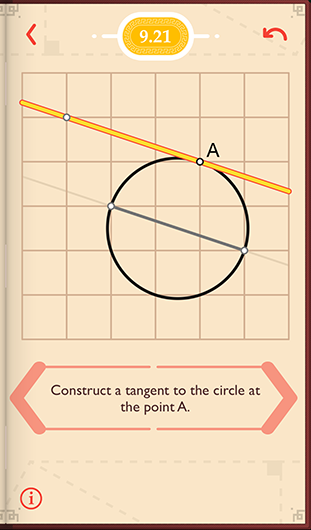
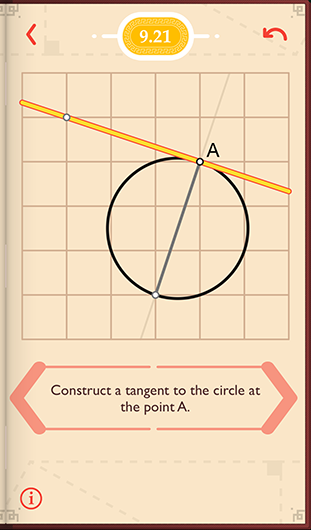
修改解答

diff --git a/Pythagorea.md b/Pythagorea.md
@@ -143,7 +143,7 @@ apple app store里Pythagorea游戏的解法，低难度题目略。
 ![9.14](solving/Pythagorea/9.14.png)
 
 ####§ 9.21
-切线，找出和连接切点和直径90度的直径，作平行线  
+切线，在切点做直径的垂线  
 ![9.21](solving/Pythagorea/9.21.png)
 
 
